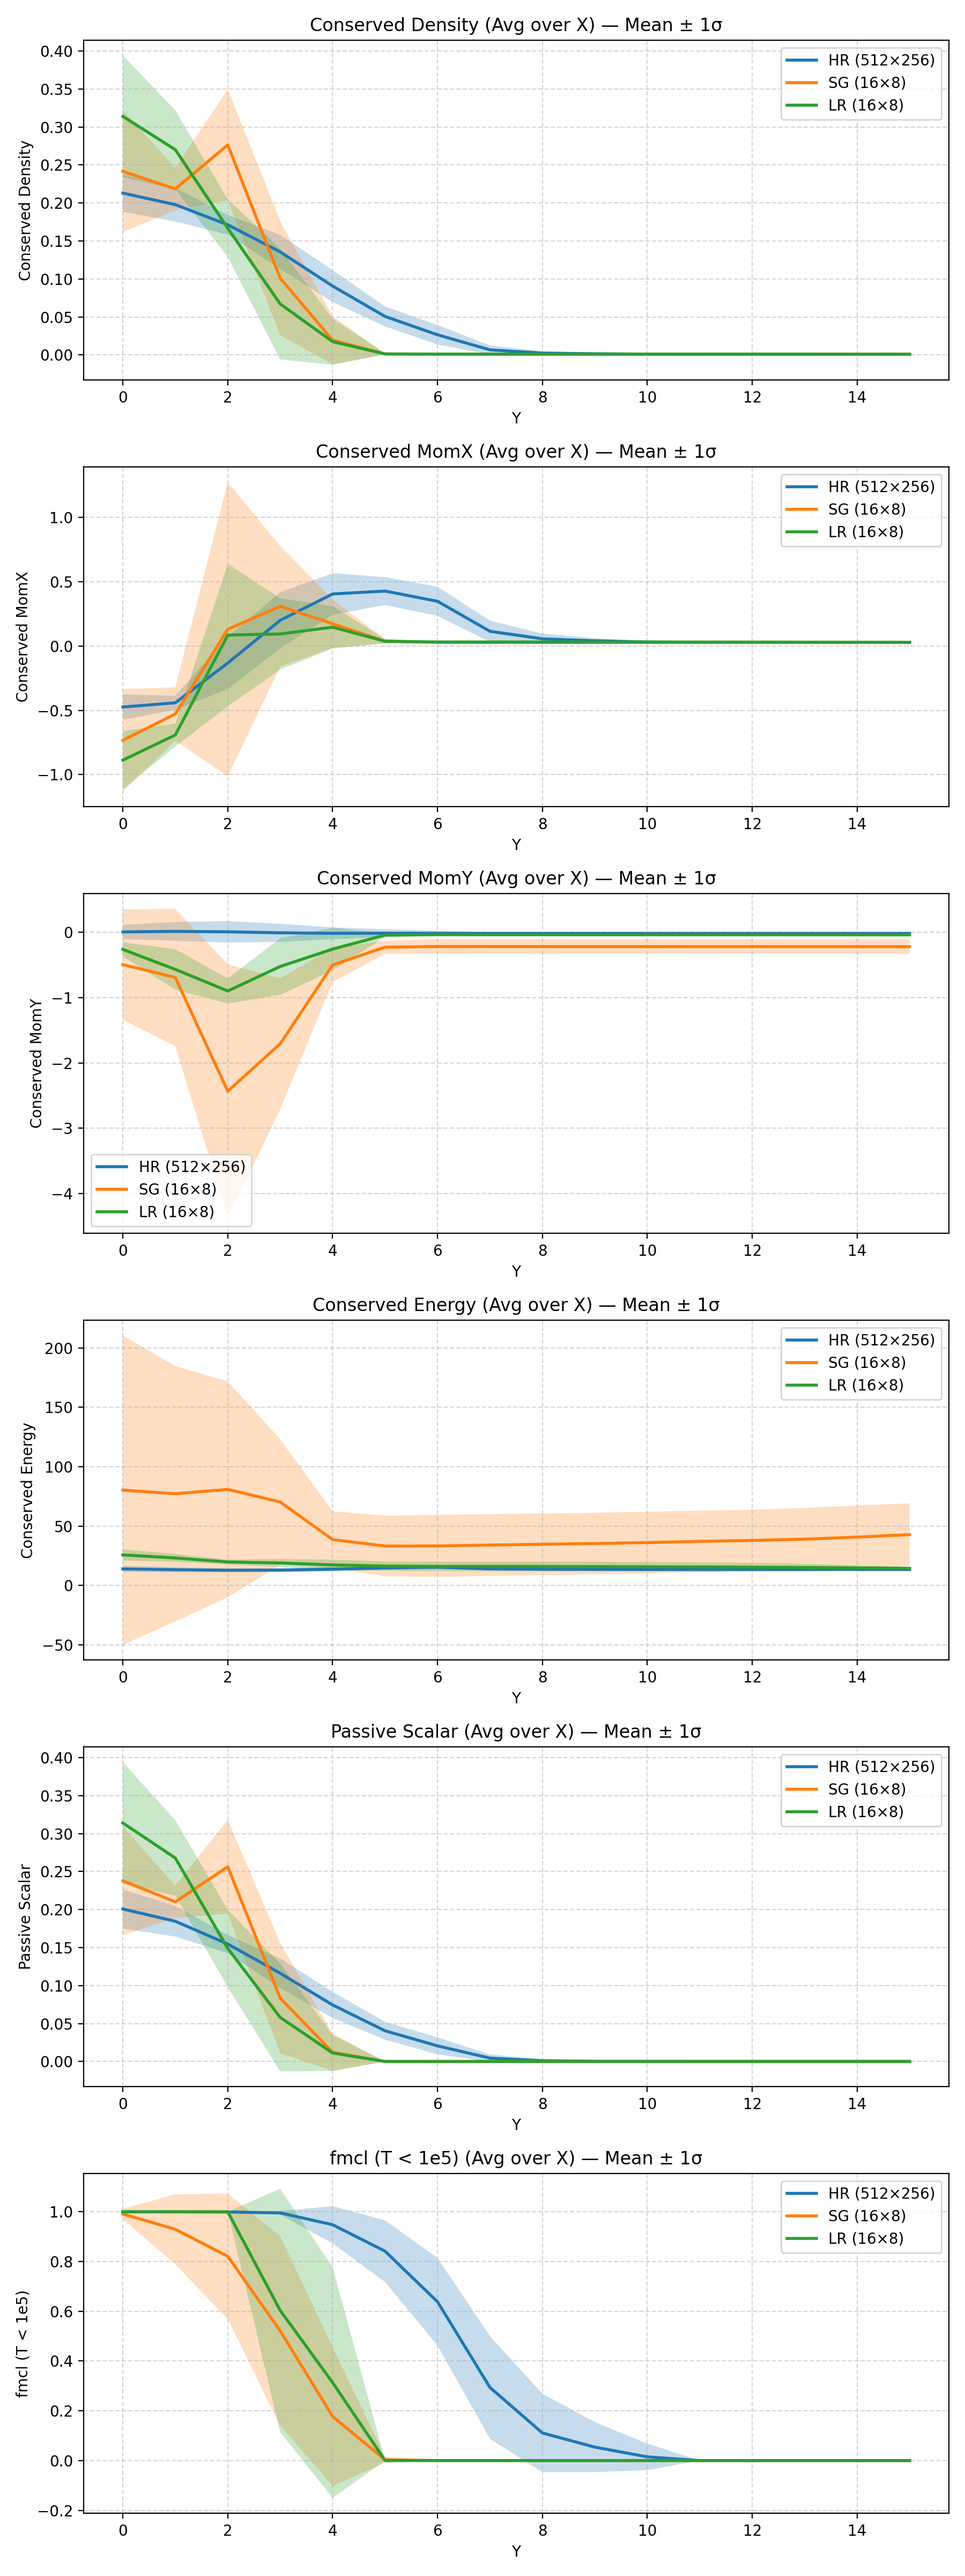
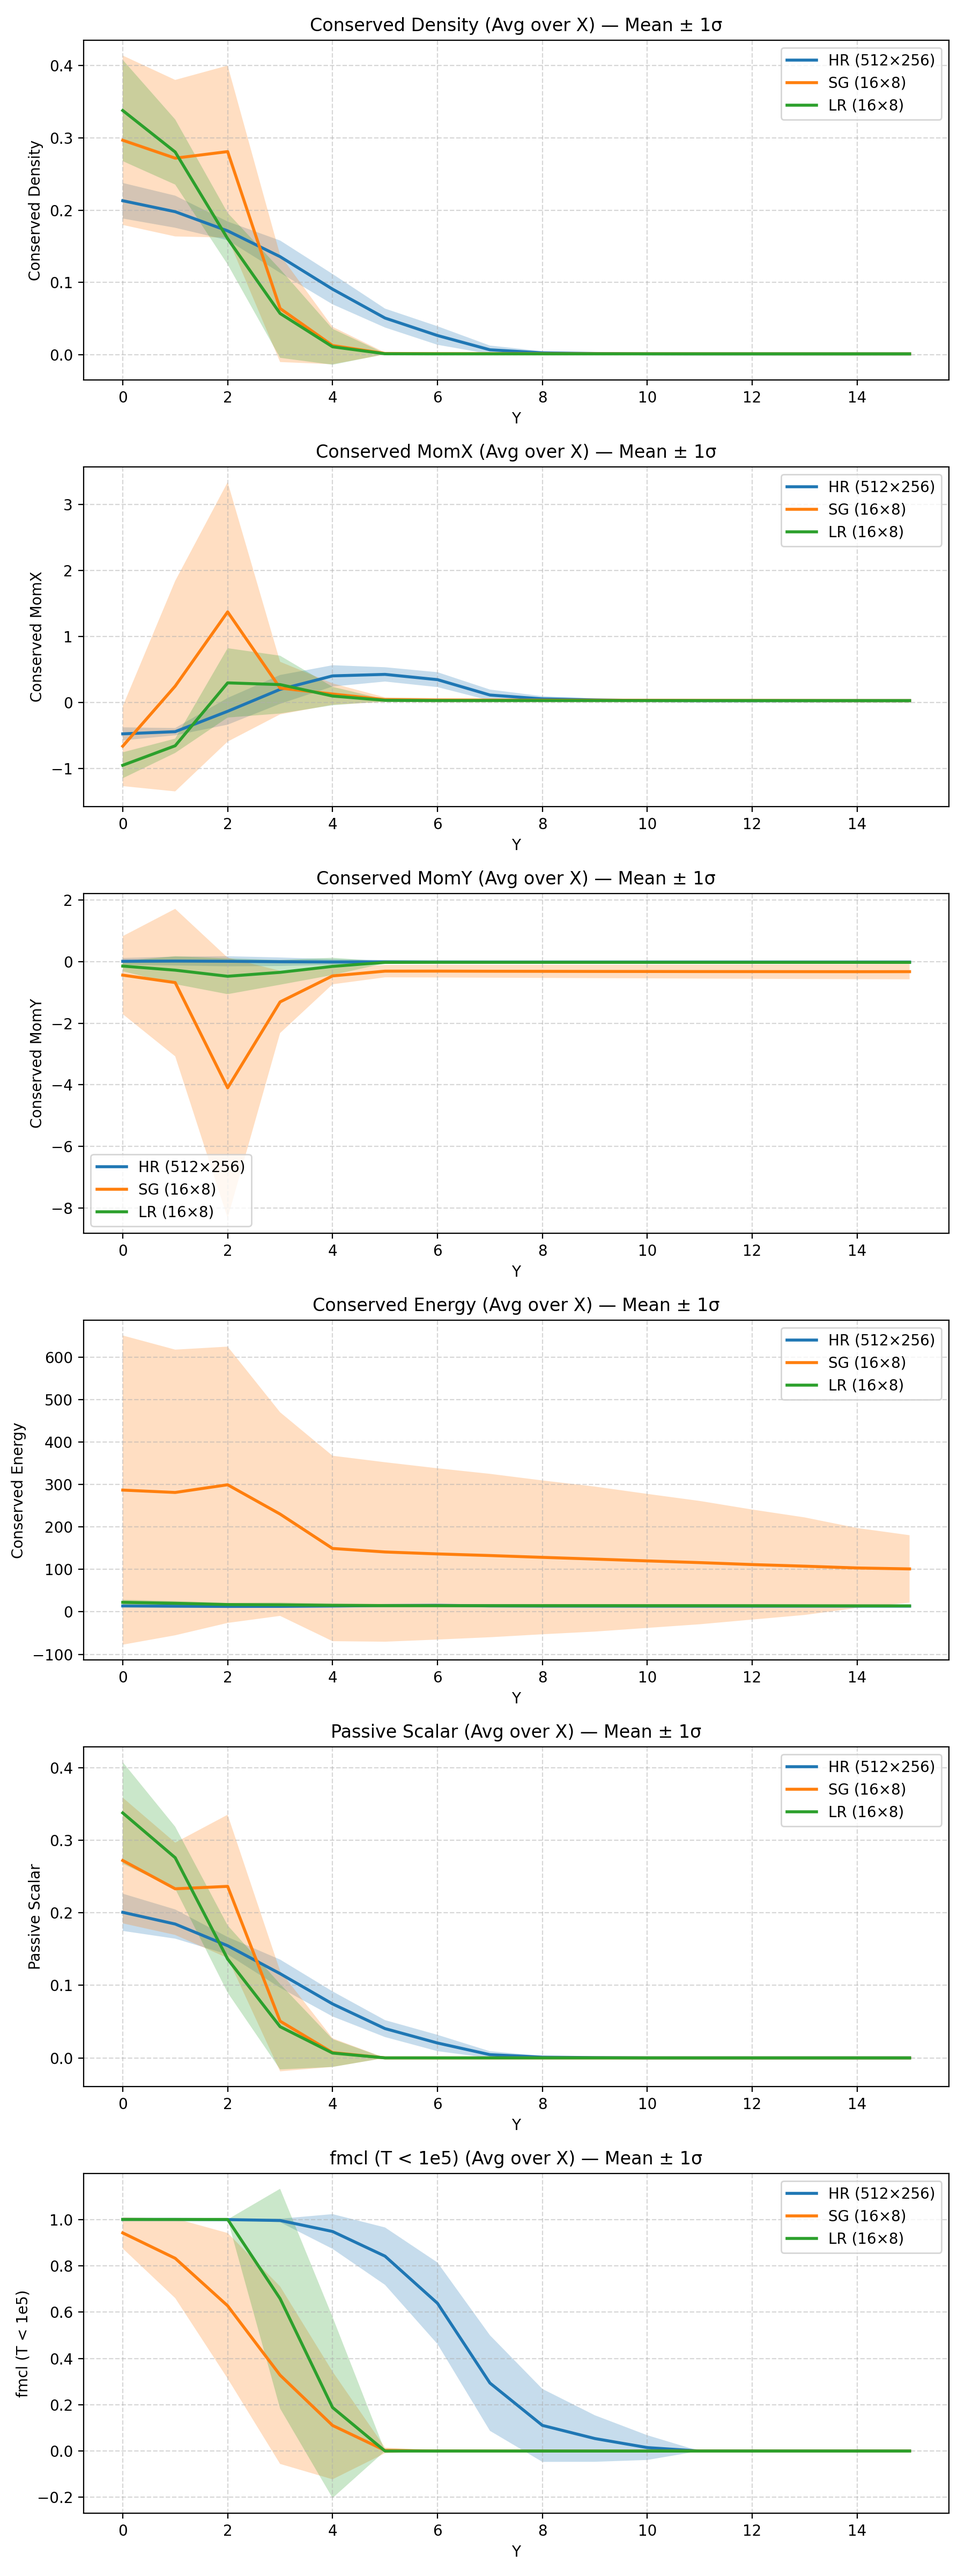
c

diff --git a/data/data_preprocess.py b/data/data_preprocess.py
@@ -97,7 +97,7 @@ class simulation_data():
 
         cwd = os.getcwd()
         os.chdir(filepath)
-        num_snaps = 300 # len([f for f in os.listdir(filepath) if f.endswith('.bin')])//2
+        num_snaps = 500 # len([f for f in os.listdir(filepath) if f.endswith('.bin')])//2
 
         self.rho = np.zeros((num_snaps, self.resolution[0], self.resolution[1]))
         self.temp = np.zeros_like(self.rho)
@@ -133,7 +133,7 @@ class simulation_data():
 
         cwd = os.getcwd()
         os.chdir(filepath)
-        num_snaps = 300 # len([f for f in os.listdir(filepath) if f.endswith('.bin')])//2
+        num_snaps = 500 # len([f for f in os.listdir(filepath) if f.endswith('.bin')])//2
 
         self.cons_rho = np.zeros((num_snaps, self.resolution[0], self.resolution[1]))
         self.cons_momx = np.zeros_like(self.cons_rho)
